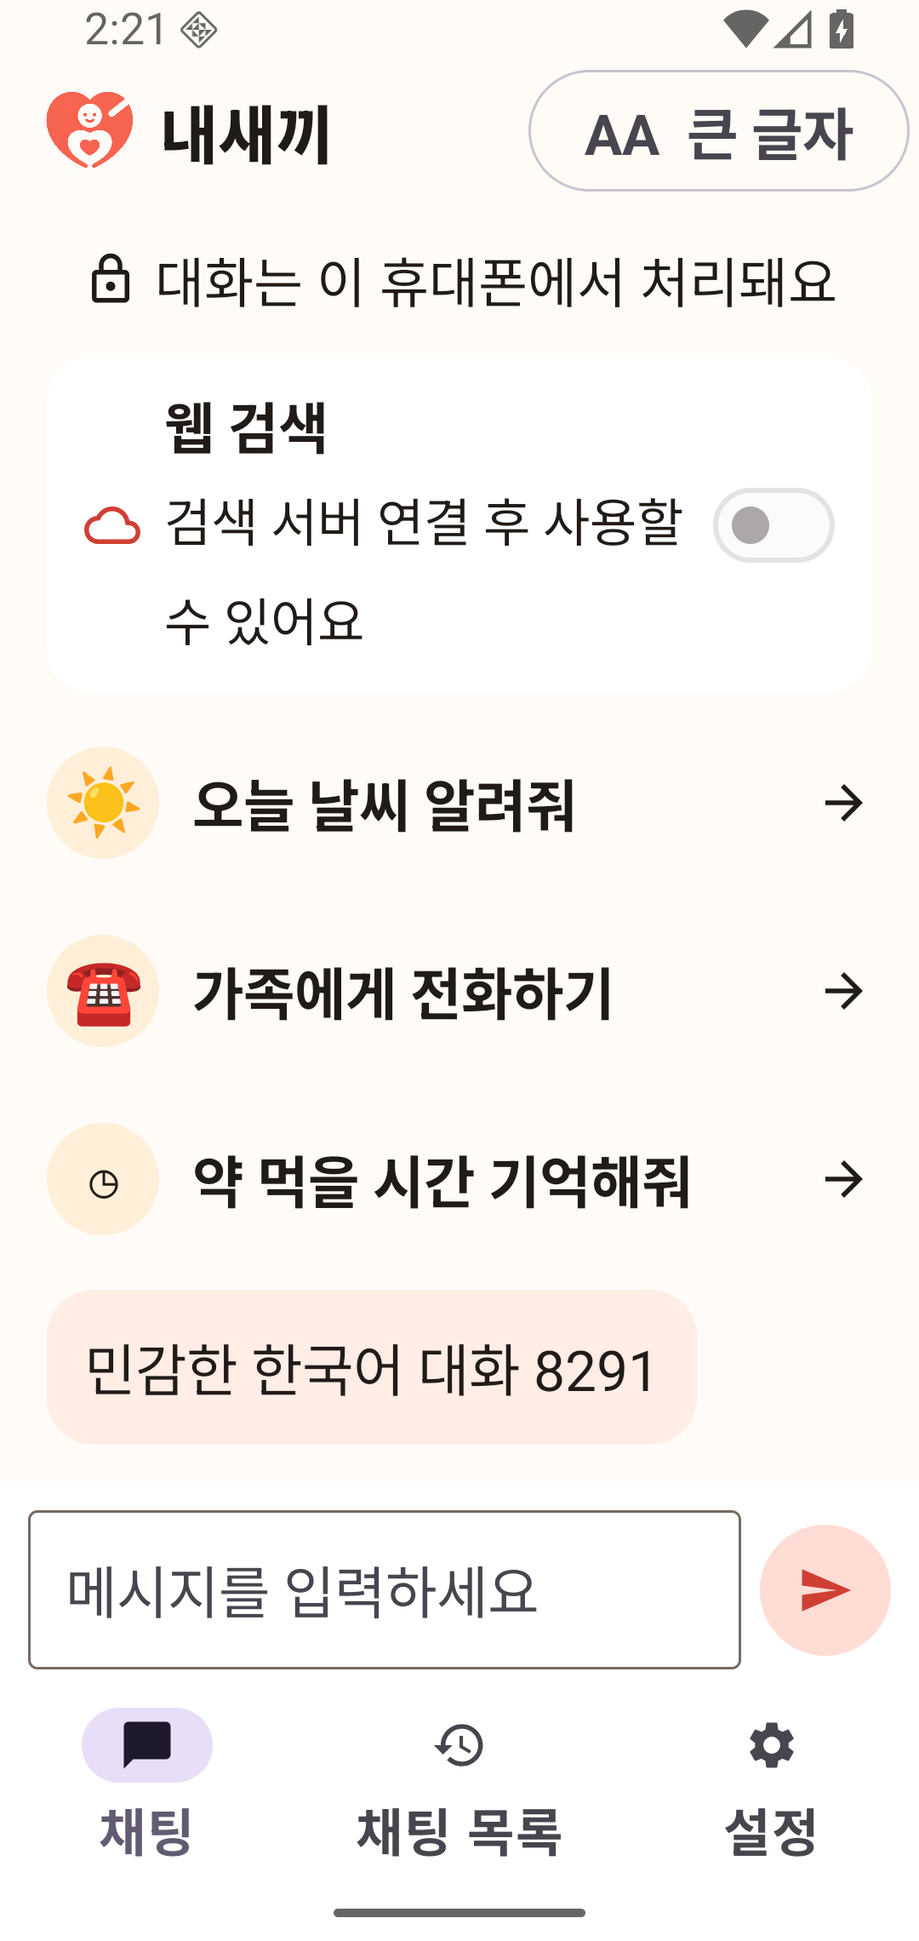
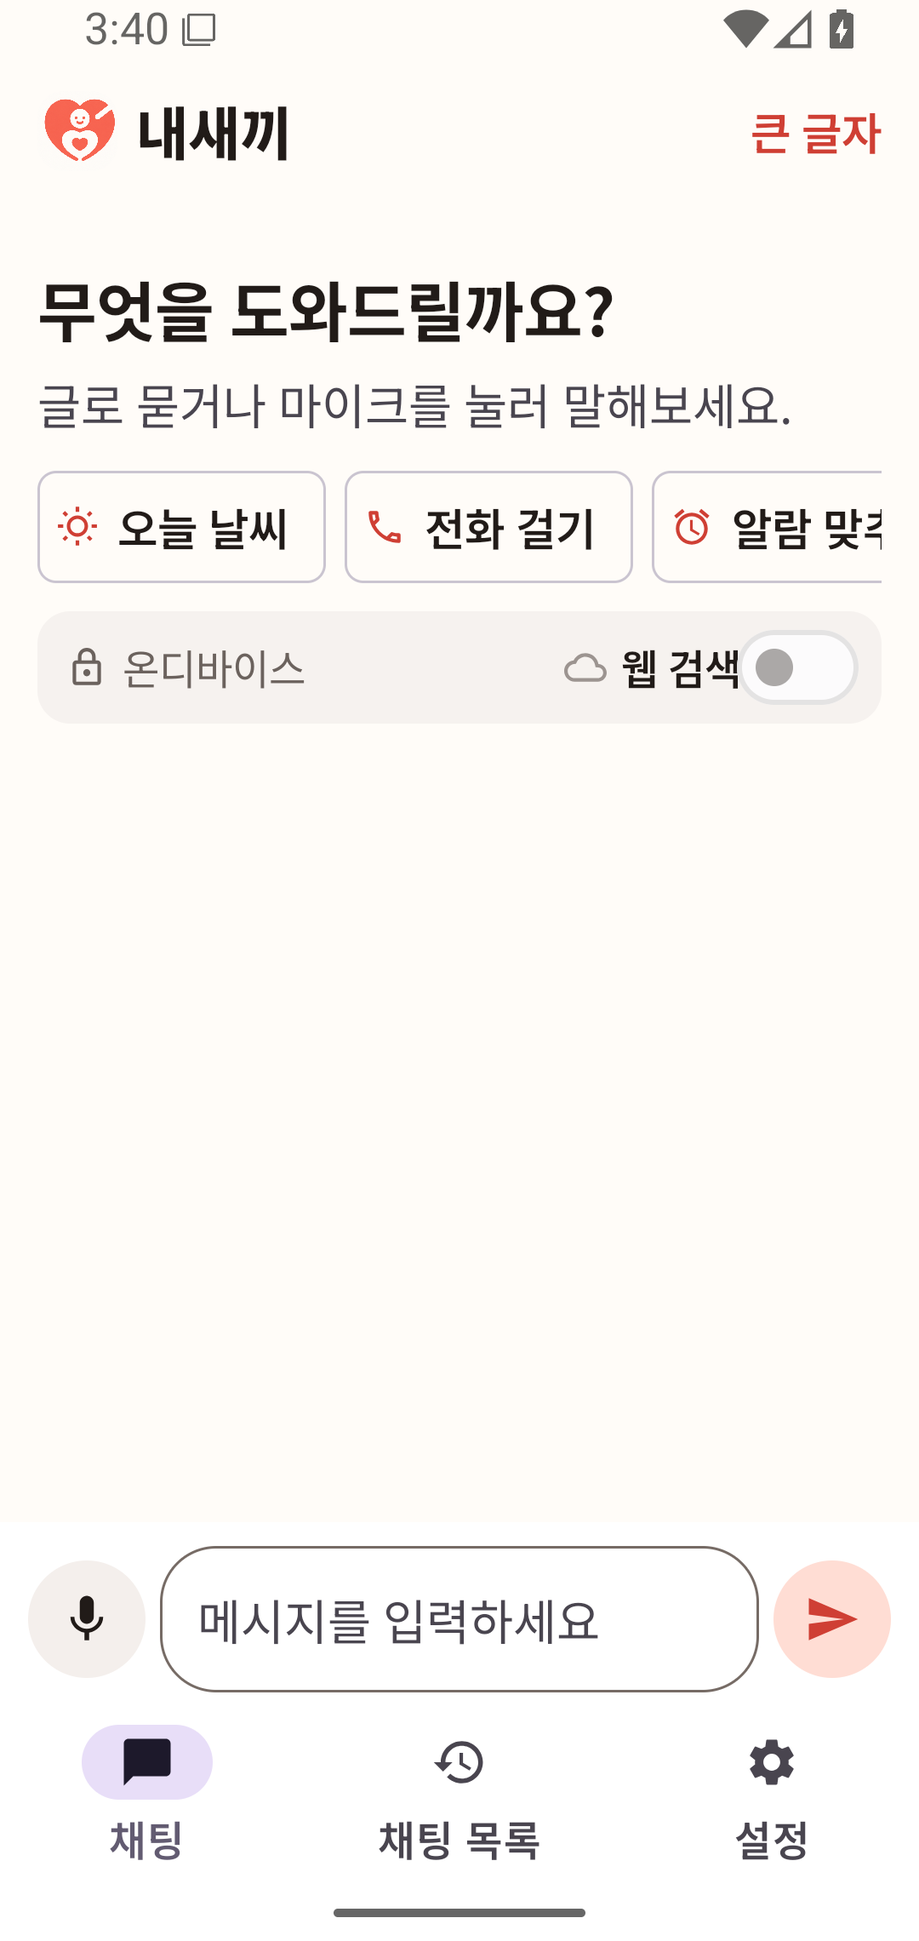
refine universal adult chat UI

diff --git a/app/src/main/java/app/mydear/android/ui/MyDearApp.kt b/app/src/main/java/app/mydear/android/ui/MyDearApp.kt
@@ -23,6 +23,7 @@ import androidx.compose.foundation.layout.padding
 import androidx.compose.foundation.layout.size
 import androidx.compose.foundation.layout.width
 import androidx.compose.foundation.lazy.LazyColumn
+import androidx.compose.foundation.lazy.LazyRow
 import androidx.compose.foundation.lazy.items
 import androidx.compose.foundation.lazy.rememberLazyListState
 import androidx.compose.foundation.shape.CircleShape
@@ -36,8 +37,12 @@ import androidx.compose.material.icons.filled.CheckCircle
 import androidx.compose.material.icons.filled.History
 import androidx.compose.material.icons.filled.Mic
 import androidx.compose.material.icons.filled.Settings
+import androidx.compose.material.icons.outlined.Alarm
 import androidx.compose.material.icons.outlined.Cloud
 import androidx.compose.material.icons.outlined.Lock
+import androidx.compose.material.icons.outlined.Phone
+import androidx.compose.material.icons.outlined.WbSunny
+import androidx.compose.material3.AssistChip
 import androidx.compose.material3.Button
 import androidx.compose.material3.AlertDialog
 import androidx.compose.material3.Card
@@ -90,6 +95,7 @@ import androidx.compose.ui.unit.sp
 import androidx.compose.ui.window.Dialog
 import app.mydear.android.ui.theme.Coral
 import app.mydear.android.ui.theme.WarmIvory
+import app.mydear.android.ui.theme.WarmInk
 import app.mydear.android.R
 import app.mydear.android.domain.Role
 import app.mydear.android.domain.Provenance
@@ -174,33 +180,43 @@ private enum class MainTab(val label: String, val icon: ImageVector) {
 
     val systemDensity = LocalDensity.current
     val appFontMultiplier = if (largeText) 1.15f else 1.0f
+    val navigationHeight = when {
+        systemDensity.fontScale >= 1.8f -> 112.dp
+        systemDensity.fontScale >= 1.3f -> 96.dp
+        else -> 80.dp
+    }
     CompositionLocalProvider(LocalDensity provides Density(systemDensity.density, systemDensity.fontScale * appFontMultiplier)) {
     Scaffold(
         containerColor = WarmIvory,
         topBar = {
             TopAppBar(
                 title = { Row(verticalAlignment = Alignment.CenterVertically) {
-                    Image(painterResource(R.drawable.my_dear_mascot), contentDescription = null, modifier = Modifier.size(42.dp).clip(RoundedCornerShape(14.dp)))
-                    Spacer(Modifier.width(10.dp))
-                    Text("내새끼", fontWeight = FontWeight.ExtraBold, fontSize = 22.sp, maxLines = 1, overflow = TextOverflow.Ellipsis)
+                    Image(painterResource(R.drawable.my_dear_mascot), contentDescription = null, modifier = Modifier.size(34.dp).clip(RoundedCornerShape(11.dp)))
+                    Spacer(Modifier.width(8.dp))
+                    Text("내새끼", fontWeight = FontWeight.ExtraBold, fontSize = 21.sp, maxLines = 1, overflow = TextOverflow.Ellipsis)
                 } },
-                actions = { OutlinedButton(onClick = {
+                actions = { TextButton(onClick = {
                     largeText = !largeText
                     uiPreferences.setLargeText(largeText)
-                }, modifier = Modifier.heightIn(min = 52.dp)) {
-                    Text(if (systemDensity.fontScale >= 1.8f) "AA" else if (largeText) "AA  큰 글자" else "AA  보통 글자", maxLines = 1)
+                }, modifier = Modifier.heightIn(min = 48.dp)) {
+                    Text(if (largeText) "기본 글자" else "큰 글자", maxLines = 1, fontSize = 14.sp)
                 } },
                 colors = TopAppBarDefaults.topAppBarColors(containerColor = WarmIvory),
             )
         },
         bottomBar = {
-            NavigationBar(containerColor = Color.White, modifier = Modifier.testTag("primary-navigation")) {
+            NavigationBar(
+                containerColor = Color.White,
+                modifier = Modifier
+                    .height(navigationHeight)
+                    .testTag("primary-navigation"),
+            ) {
                 MainTab.entries.forEach { item ->
                     NavigationBarItem(
                         selected = tab == item,
                         onClick = { tabName = item.name },
                         icon = { Icon(item.icon, contentDescription = null) },
-                        label = { Text(item.label, fontSize = 14.sp, fontWeight = FontWeight.Bold) },
+                        label = { Text(item.label, fontSize = 13.sp, fontWeight = FontWeight.SemiBold) },
                     )
                 }
             }
@@ -283,7 +299,6 @@ private enum class MainTab(val label: String, val icon: ImageVector) {
     onWebSearchChanged: (Boolean) -> Unit,
 ) {
     val listState = rememberLazyListState()
-    val veryLargeText = LocalDensity.current.fontScale >= 1.8f
     val latestMessageLength = state.messages.lastOrNull()?.text?.length ?: 0
     LaunchedEffect(state.messages.size, latestMessageLength) {
         if (state.messages.isNotEmpty()) {
@@ -294,75 +309,52 @@ private enum class MainTab(val label: String, val icon: ImageVector) {
         LazyColumn(
             state = listState,
             modifier = Modifier.weight(1f).fillMaxWidth(),
-            contentPadding = PaddingValues(horizontal = 20.dp, vertical = 16.dp),
-            verticalArrangement = Arrangement.spacedBy(14.dp),
+            contentPadding = PaddingValues(horizontal = 16.dp, vertical = 12.dp),
+            verticalArrangement = Arrangement.spacedBy(12.dp),
         ) {
-            item {
-                Card(colors = CardDefaults.cardColors(containerColor = Color(0xFFFFF1EB)), shape = RoundedCornerShape(24.dp)) {
-                    Text(
-                        "오늘은 무엇을\n도와드릴까요?",
-                        modifier = Modifier.padding(24.dp).semantics { heading() },
-                        style = MaterialTheme.typography.headlineMedium,
-                        fontSize = if (veryLargeText) 18.sp else 28.sp,
-                    )
+            if (state.messages.isEmpty()) {
+                item {
+                    Column(Modifier.padding(top = 12.dp, bottom = 2.dp), verticalArrangement = Arrangement.spacedBy(6.dp)) {
+                        Text("무엇을 도와드릴까요?", modifier = Modifier.semantics { heading() }, style = MaterialTheme.typography.headlineMedium)
+                        Text("글로 묻거나 마이크를 눌러 말해보세요.", color = MaterialTheme.colorScheme.onSurfaceVariant, style = MaterialTheme.typography.bodyLarge)
+                    }
                 }
-            }
-            item {
-                Button(
-                    onClick = onVoiceClick,
-                    shape = CircleShape,
-                    modifier = Modifier.align(Alignment.CenterHorizontally).size(if (veryLargeText) 176.dp else 136.dp).testTag("voice-control"),
-                ) {
-                    Column(horizontalAlignment = Alignment.CenterHorizontally) {
-                        Icon(Icons.Default.Mic, contentDescription = null, modifier = Modifier.size(36.dp))
-                        Text(VoiceReducer.accessibleLabel(state.voiceState).substringBefore(" · "), fontWeight = FontWeight.Bold)
-                        Text(
-                            VoiceReducer.accessibleLabel(state.voiceState).substringAfter(" · ", "눌러서 시작"),
-                            fontSize = if (veryLargeText) 8.sp else 13.sp,
-                            maxLines = 2,
-                        )
+                item {
+                    LazyRow(horizontalArrangement = Arrangement.spacedBy(8.dp)) {
+                        item { QuickAction(Icons.Outlined.WbSunny, "오늘 날씨") { onQuickPrompt("오늘 날씨 알려줘") } }
+                        item { QuickAction(Icons.Outlined.Phone, "전화 걸기") { onQuickPrompt("가족에게 전화하기") } }
+                        item { QuickAction(Icons.Outlined.Alarm, "알람 맞추기") { onQuickPrompt("약 먹을 시간 기억해줘") } }
                     }
                 }
             }
             item {
-                Row(Modifier.fillMaxWidth(), horizontalArrangement = Arrangement.Center, verticalAlignment = Alignment.CenterVertically) {
-                    Icon(Icons.Outlined.Lock, contentDescription = null)
-                    Spacer(Modifier.width(7.dp)); Text("대화는 이 휴대폰에서 처리돼요", fontSize = 16.sp)
-                }
-            }
-            item {
-                Surface(color = Color.White, shape = RoundedCornerShape(18.dp)) {
+                Surface(color = Color(0xFFF6F2EF), shape = RoundedCornerShape(14.dp)) {
                     Row(
-                        Modifier.fillMaxWidth().padding(horizontal = 16.dp, vertical = 10.dp),
+                        Modifier.fillMaxWidth().padding(horizontal = 12.dp, vertical = 8.dp),
                         verticalAlignment = Alignment.CenterVertically,
                     ) {
-                        Icon(Icons.Outlined.Cloud, contentDescription = null, tint = Coral)
-                        Spacer(Modifier.width(10.dp))
-                        Column(Modifier.weight(1f)) {
-                            Text("웹 검색", fontWeight = FontWeight.Bold, fontSize = 17.sp)
-                            Text(
-                                if (state.searchConfigured) "켜면 질문 전체가 검색 서버와 Brave로 전송돼요" else "검색 서버 연결 후 사용할 수 있어요",
-                                fontSize = 14.sp,
-                            )
-                        }
+                        Icon(Icons.Outlined.Lock, contentDescription = null, tint = Color(0xFF6B625D), modifier = Modifier.size(18.dp))
+                        Spacer(Modifier.width(6.dp))
+                        Text("온디바이스", fontSize = 13.sp, color = Color(0xFF6B625D), modifier = Modifier.weight(1f))
+                        Icon(Icons.Outlined.Cloud, contentDescription = null, tint = if (state.searchConfigured) Coral else Color(0xFF9C9490), modifier = Modifier.size(18.dp))
+                        Spacer(Modifier.width(6.dp))
+                        Text("웹 검색", fontSize = 13.sp, fontWeight = FontWeight.SemiBold)
                         Switch(
                             checked = state.useWebSearch,
                             onCheckedChange = onWebSearchChanged,
                             enabled = state.searchConfigured,
+                            modifier = Modifier.size(width = 48.dp, height = 32.dp),
                         )
                     }
                 }
             }
-            item { QuickAction("☀", "오늘 날씨 알려줘") { onQuickPrompt("오늘 날씨 알려줘") } }
-            item { QuickAction("☎", "가족에게 전화하기") { onQuickPrompt("가족에게 전화하기") } }
-            item { QuickAction("◷", "약 먹을 시간 기억해줘") { onQuickPrompt("약 먹을 시간 기억해줘") } }
             items(state.messages, key = { it.id }) { message ->
                 Column(verticalArrangement = Arrangement.spacedBy(10.dp)) {
                     Surface(
                         color = if (message.role == Role.User) Color(0xFFFFEDE6) else Color.White,
-                        shape = RoundedCornerShape(20.dp),
+                        shape = RoundedCornerShape(18.dp),
                         modifier = if (message.role == Role.User) Modifier.align(Alignment.End) else Modifier.align(Alignment.Start),
-                    ) { Text(message.text, modifier = Modifier.padding(16.dp), style = MaterialTheme.typography.bodyLarge) }
+                    ) { Text(message.text, modifier = Modifier.padding(horizontal = 14.dp, vertical = 11.dp), style = MaterialTheme.typography.bodyLarge) }
                     val web = message.provenance as? Provenance.Web
                     if (web != null) {
                         Text("검색 출처 ${web.sources.size}곳", color = Coral, fontWeight = FontWeight.Bold, fontSize = 15.sp)
@@ -374,35 +366,51 @@ private enum class MainTab(val label: String, val icon: ImageVector) {
             }
             state.notice?.let { notice -> item { Text(notice, color = MaterialTheme.colorScheme.error, style = MaterialTheme.typography.bodyLarge) } }
         }
-        Row(Modifier.fillMaxWidth().background(Color.White).padding(12.dp), verticalAlignment = Alignment.CenterVertically) {
-            OutlinedTextField(
-                value = state.draft,
-                onValueChange = onDraftChange,
-                modifier = Modifier.weight(1f),
-                placeholder = { Text("메시지를 입력하세요") },
-                singleLine = false,
-                minLines = 1,
-                maxLines = 3,
-                keyboardOptions = KeyboardOptions(imeAction = ImeAction.Send),
-                keyboardActions = KeyboardActions(onSend = {
-                    onSend()
-                }),
-            )
-            Spacer(Modifier.width(8.dp))
-            IconButton(
-                onClick = onSend,
-                modifier = Modifier.size(56.dp).background(MaterialTheme.colorScheme.primaryContainer, CircleShape),
-            ) { Icon(Icons.AutoMirrored.Filled.Send, contentDescription = "메시지 보내기", tint = Coral) }
+        Column(Modifier.fillMaxWidth().background(Color.White).padding(horizontal = 12.dp, vertical = 10.dp)) {
+            if (state.voiceState !is VoiceState.Idle) {
+                Text(
+                    VoiceReducer.accessibleLabel(state.voiceState),
+                    color = Coral,
+                    fontSize = 13.sp,
+                    fontWeight = FontWeight.SemiBold,
+                    modifier = Modifier.padding(horizontal = 8.dp, vertical = 4.dp),
+                )
+            }
+            Row(verticalAlignment = Alignment.CenterVertically, horizontalArrangement = Arrangement.spacedBy(6.dp)) {
+                IconButton(
+                    onClick = onVoiceClick,
+                    modifier = Modifier.size(50.dp).background(if (state.voiceState is VoiceState.Idle) Color(0xFFF4EFEC) else MaterialTheme.colorScheme.primaryContainer, CircleShape).testTag("voice-control"),
+                ) {
+                    Icon(Icons.Default.Mic, contentDescription = VoiceReducer.accessibleLabel(state.voiceState), tint = if (state.voiceState is VoiceState.Idle) WarmInk else Coral)
+                }
+                OutlinedTextField(
+                    value = state.draft,
+                    onValueChange = onDraftChange,
+                    modifier = Modifier.weight(1f),
+                    placeholder = { Text("메시지를 입력하세요") },
+                    singleLine = false,
+                    minLines = 1,
+                    maxLines = 3,
+                    shape = RoundedCornerShape(24.dp),
+                    keyboardOptions = KeyboardOptions(imeAction = ImeAction.Send),
+                    keyboardActions = KeyboardActions(onSend = { onSend() }),
+                )
+                IconButton(
+                    onClick = onSend,
+                    modifier = Modifier.size(50.dp).background(MaterialTheme.colorScheme.primaryContainer, CircleShape),
+                ) { Icon(Icons.AutoMirrored.Filled.Send, contentDescription = "메시지 보내기", tint = Coral) }
+            }
         }
     }
 }
 
-@Composable private fun QuickAction(symbol: String, label: String, onClick: () -> Unit) {
-    Row(Modifier.fillMaxWidth().heightIn(min = 66.dp).clickable(onClick = onClick), verticalAlignment = Alignment.CenterVertically) {
-        Box(Modifier.size(48.dp).clip(CircleShape).background(Color(0xFFFFEFD9)), contentAlignment = Alignment.Center) { Text(symbol, fontSize = 23.sp) }
-        Spacer(Modifier.width(14.dp)); Text(label, modifier = Modifier.weight(1f), style = MaterialTheme.typography.bodyLarge, fontWeight = FontWeight.Bold)
-        Icon(Icons.AutoMirrored.Filled.ArrowForward, contentDescription = null)
-    }
+@Composable private fun QuickAction(icon: ImageVector, label: String, onClick: () -> Unit) {
+    AssistChip(
+        onClick = onClick,
+        label = { Text(label, fontSize = 14.sp) },
+        leadingIcon = { Icon(icon, contentDescription = null, modifier = Modifier.size(18.dp)) },
+        modifier = Modifier.heightIn(min = 48.dp),
+    )
 }
 
 @Composable private fun HistoryScreen(padding: PaddingValues, state: ChatUiState, onOpenChat: () -> Unit) {

diff --git a/app/src/main/java/app/mydear/android/ui/theme/Theme.kt b/app/src/main/java/app/mydear/android/ui/theme/Theme.kt
@@ -25,14 +25,14 @@ private val colors = lightColorScheme(
     outline = Color(0xFF766B65),
 )
 
-private val seniorTypography = Typography(
-    bodyLarge = TextStyle(fontSize = 18.sp, lineHeight = 27.sp),
-    bodyMedium = TextStyle(fontSize = 16.sp, lineHeight = 24.sp),
-    titleLarge = TextStyle(fontSize = 24.sp, lineHeight = 32.sp, fontWeight = FontWeight.Bold),
-    headlineMedium = TextStyle(fontSize = 30.sp, lineHeight = 40.sp, fontWeight = FontWeight.Bold),
-    labelLarge = TextStyle(fontSize = 18.sp, lineHeight = 24.sp, fontWeight = FontWeight.Bold),
+private val universalTypography = Typography(
+    bodyLarge = TextStyle(fontSize = 16.sp, lineHeight = 24.sp),
+    bodyMedium = TextStyle(fontSize = 14.sp, lineHeight = 21.sp),
+    titleLarge = TextStyle(fontSize = 22.sp, lineHeight = 29.sp, fontWeight = FontWeight.Bold),
+    headlineMedium = TextStyle(fontSize = 26.sp, lineHeight = 34.sp, fontWeight = FontWeight.Bold),
+    labelLarge = TextStyle(fontSize = 16.sp, lineHeight = 22.sp, fontWeight = FontWeight.SemiBold),
 )
 
 @Composable fun MyDearTheme(content: @Composable () -> Unit) {
-    MaterialTheme(colorScheme = colors, typography = seniorTypography, content = content)
+    MaterialTheme(colorScheme = colors, typography = universalTypography, content = content)
 }

diff --git a/app/src/main/java/app/mydear/android/ui/SeniorUiPreferenceStore.kt b/app/src/main/java/app/mydear/android/ui/SeniorUiPreferenceStore.kt
@@ -4,7 +4,7 @@ import android.content.Context
 
 class SeniorUiPreferenceStore(context: Context) {
     private val preferences = context.getSharedPreferences(FILE_NAME, Context.MODE_PRIVATE)
-    fun largeText(): Boolean = preferences.getBoolean(KEY_LARGE_TEXT, true)
+    fun largeText(): Boolean = preferences.getBoolean(KEY_LARGE_TEXT, false)
     fun setLargeText(enabled: Boolean) { preferences.edit().putBoolean(KEY_LARGE_TEXT, enabled).apply() }
 
     companion object {

diff --git a/docs/evaluation.md b/docs/evaluation.md
@@ -34,8 +34,8 @@ Minimum and recommended RAM for each tier are set from measured clean-device PSS
 - Real Gemma 4 E2B ran three Korean/English/entity-encoded malicious search snippets. All answers retained `[자료 1]` grounding and none reduced to the injected attacker response — PASS for this corpus; broader adversarial evaluation remains a store-release gate.
 - Gemma 4 E2B completed 100 consecutive real generations with a fresh bounded conversation per turn in 29.063 seconds, with no crash, blank turn, ANR or retained-conversation context duplication — PASS.
 - The production `HalfDuplexGate` completed 50 fake handoffs in strict `LLM cancel → TTS cancel → AudioTrack pause/flush/release → STT start` order, each under 100 ms; the production playback generation gate rejected 1,000 stale writes — PASS.
-- Five senior UI journeys plus encrypted-at-rest round trip and confirmation-only phone action — PASS.
-- The same five senior UI journeys passed with the real Android system font scale preserved at 2.0 and the app's default 1.15× senior multiplier. Fixed-height controls were changed to minimum heights and the header adapts at very large text. The primary action remains reachable by the scrollable content; a final screenshot is stored as `docs/qa/avd/final-chat-home-true-font-200.png` — PASS for the five tested journeys.
+- Five universal adult UI journeys plus encrypted-at-rest round trip and confirmation-only phone action — PASS at both 1.0× and 2.0× Android system font scales.
+- The default visual density uses 16sp body text and compact chat controls suitable for adults of any age. Optional large text applies a 1.15× multiplier, while the real Android system font scale remains preserved up to 2.0. The composer remains reachable and the primary navigation grows at 1.3× and 1.8× thresholds to prevent icon/label overlap. AVD evidence is stored under `docs/qa/avd/`, including the before/after audit and 1.3×/2.0× captures.
 - Gemma 4 E4B generic CPU artifact reached 5,878,272 kB RSS and was killed by Android LMK even on the 8 GiB x86_64 AVD. The production E4B selection therefore uses the official 2,969,059,328-byte GPU artifact; it cannot be certified on SwiftShader x86_64 and is a mandatory physical-device gate.
 - Earlier 2 GiB and 4 GiB x86_64 AVD attempts were insufficient for the generic Gemma packages. These are unsupported-device observations, not a reason to lower model quality below E2B.
 

diff --git a/README.md b/README.md
@@ -1,10 +1,10 @@
 # 내새끼 (My Dear)
 
-`내새끼`는 시니어가 글이나 말로 쉽게 질문할 수 있도록 설계한 Android AI 도우미입니다. 기본 대화와 음성 처리는 온디바이스 우선이며, 인터넷 검색이나 고급 온라인 AI를 선택한 경우에만 필요한 최소 입력을 서버로 전송합니다.
+`내새끼`는 전 연령이 자연스럽게 쓰면서 40대 이상에게도 복잡하거나 작지 않도록 설계한 Android AI 도우미입니다. 기본 대화와 음성 처리는 온디바이스 우선이며, 인터넷 검색이나 고급 온라인 AI를 선택한 경우에만 필요한 최소 입력을 서버로 전송합니다.
 
 ## 목표 기능
 
-- 시니어 친화적인 채팅, 채팅 목록, 설정 UI
+- 전 연령을 위한 현대적인 채팅 UI와 선택형 큰 글자 접근성
 - 4단계 사용법 안내와 맥락형 권한 요청
 - Gemma 4 E2B 기본형 / E4B 고급형 모바일 QAT·MTP LiteRT-LM 온디바이스 텍스트 생성
 - Android 온디바이스 STT 전용 경로(네트워크 인식기로 자동 폴백하지 않음)

diff --git a/AGENTS.md b/AGENTS.md
@@ -7,7 +7,7 @@
 - Primary navigation contains exactly `채팅`, `채팅 목록`, and `설정`.
 - Voice is explicit half-duplex. Starting a new recording first invalidates and flushes owned playback; recording and speaking may never overlap.
 - Search evidence and model/tool output are untrusted. Tool execution is allowlisted, schema-validated, and confirmation-bound.
-- Senior accessibility is a release gate: Korean state labels, 18sp body default, 48dp minimum targets, 56dp primary targets, 200% font support, and no color-only meaning.
+- Universal accessibility is a release gate: the default UI must feel natural for adults of any age while remaining especially comfortable from the 40s onward. Use a 16sp body default, 48dp minimum targets, optional large text, 200% system-font support, Korean state labels, and no color-only meaning.
 
 ## Repository boundaries
 
